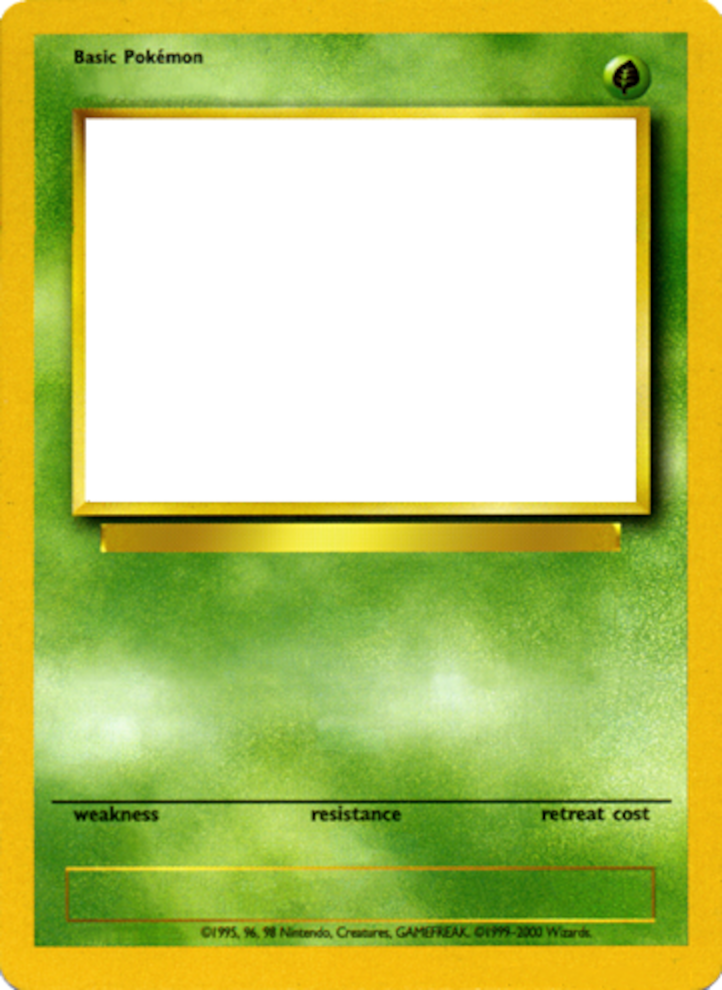
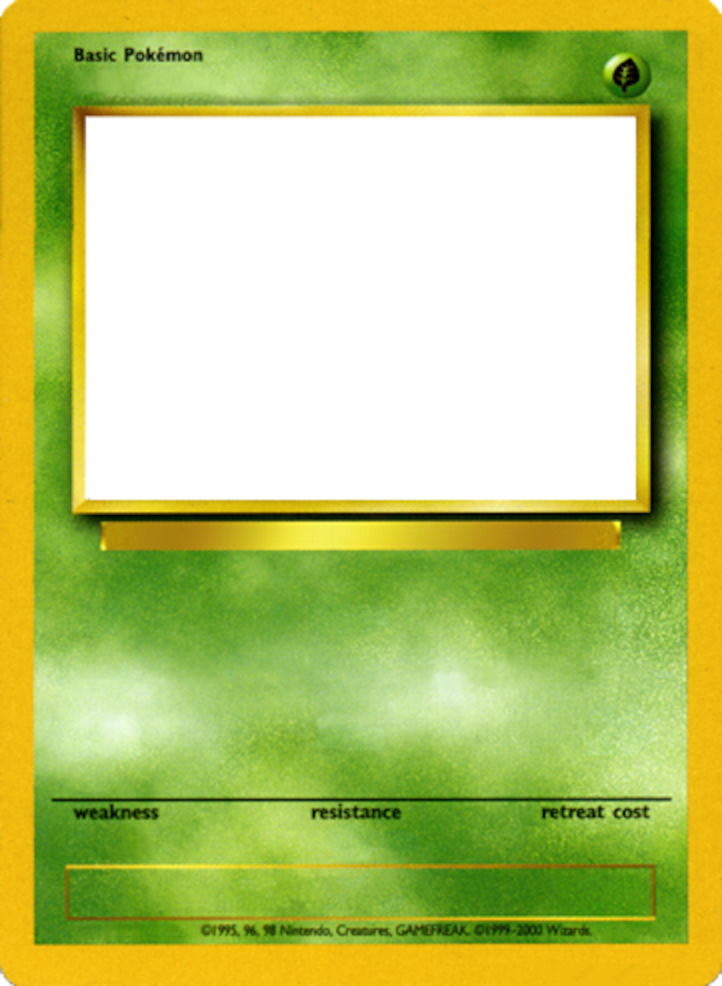
fixed atk dmg text font and added new image bgs for poke generator

diff --git a/src/components/PokeCardCreator.tsx b/src/components/PokeCardCreator.tsx
@@ -4,6 +4,8 @@ import { HorizontalAlign, Jimp, loadFont, VerticalAlign, rgbaToInt } from "jimp"
 import Image from "next/image";
 import { useEffect, useState } from "react";
 import '@/styles/poke.css'
+import { DotLoader } from "react-spinners";
+
 
 export default function PokeCardCreator() {
 
@@ -108,7 +110,7 @@ export default function PokeCardCreator() {
         // setup
         const gillCb44 = await loadFont("/fonts/gill-cb-44.fnt");
         const gillCb48 = await loadFont("/fonts/gill-cb-48.fnt");
-        const gillCp64 = await loadFont("/fonts/gill-cp-64.fnt");
+        const gillRp64 = await loadFont("/fonts/gill-rp-64.fnt");
         // const gillRi24 = await loadFont("/fonts/gill-ri-24.fnt");
         // const gillRi22 = await loadFont("/fonts/gill-ri-22.fnt");
         // const gillRbi24 = await loadFont("/fonts/gill-rbi-24.fnt");
@@ -147,13 +149,13 @@ export default function PokeCardCreator() {
         // move 1
         card.composite(energyType, 80, 609);
         card.print({font: gillCb44 , x: 114, y:600, text:{text:`${formData.move1name}`, alignmentX: HorizontalAlign.CENTER, alignmentY: VerticalAlign.MIDDLE} , maxWidth: 500, maxHeight: 50});
-        card.print({font: gillCp64 , x: 596, y:600, text:{text:`${formData.move1dmg}`, alignmentX: HorizontalAlign.CENTER, alignmentY: VerticalAlign.MIDDLE} , maxWidth: 50, maxHeight: 50});
+        card.print({font: gillRp64 , x: 570, y:600, text:{text:`${formData.move1dmg}`, alignmentX: HorizontalAlign.CENTER, alignmentY: VerticalAlign.MIDDLE} , maxWidth: 100, maxHeight: 50});
 
         // move 2
         card.composite(energyType, 58, 709);
         card.composite(energyColorless, 108, 709);
         card.print({font: gillCb44 , x: 114, y:700, text:{text:`${formData.move2name}`, alignmentX: HorizontalAlign.CENTER, alignmentY: VerticalAlign.MIDDLE} , maxWidth: 500, maxHeight: 50});
-        card.print({font: gillCp64 , x: 596, y:700, text:{text:`${formData.move2dmg}`, alignmentX: HorizontalAlign.CENTER, alignmentY: VerticalAlign.MIDDLE} , maxWidth: 50, maxHeight: 50});
+        card.print({font: gillRp64 , x: 570, y:700, text:{text:`${formData.move2dmg}`, alignmentX: HorizontalAlign.CENTER, alignmentY: VerticalAlign.MIDDLE} , maxWidth: 100, maxHeight: 50});
 
         // weakness, resistance & retreat cost
         card.composite(weakness, 100, 834);
@@ -218,7 +220,7 @@ export default function PokeCardCreator() {
 
   return (
     <div className="flex gap-0 w-full h-svh justify-evenly items-center">
-      <h1 className="handwriting absolute top-14 text-5xl opacity-50 text-zinc-100">Pokemon Card Generator</h1>
+      <h1 className="handwriting absolute top-7 text-5xl opacity-50 text-zinc-100">Pokemon Card Generator</h1>
       <form onSubmit={handleUpdate} onChange={handleUpdate} className="flex gap-10 text-black text-2xl rounded-3xl bg-slate-700 bg-opacity-40 px-12 py-10">
         <div className="flex flex-col gap-5">
           
@@ -371,7 +373,17 @@ export default function PokeCardCreator() {
 
       </form>
       <div className="rounded-3xl bg-slate-700 bg-opacity-40 p-5">
+        {!output ? (
+          <div className="w-[500px] h-[684px] flex flex-col justify-center items-center">
+            <p className="text-4xl mb-20 font-medium text-zinc-100">Loading</p> 
+            <DotLoader
+              size={100}
+              color={"#2f2e2e"}
+            />
+          </div>
+        ) : (
         <Image src={output} alt="poke" height={500} width={500} />
+        )}
       </div>
     </div>
   )
